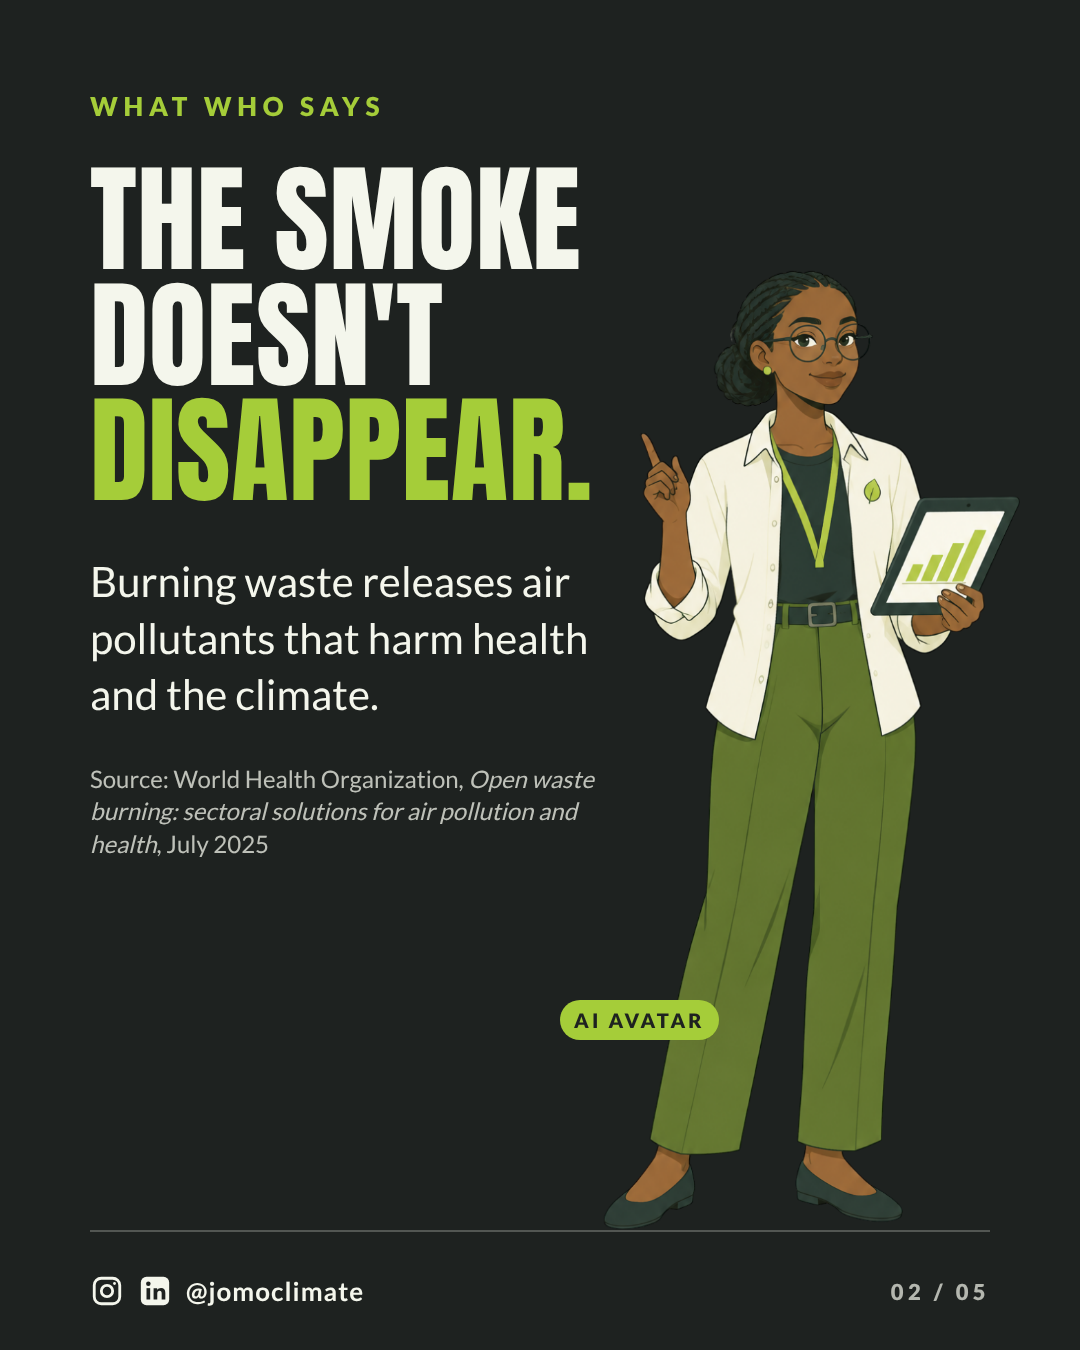
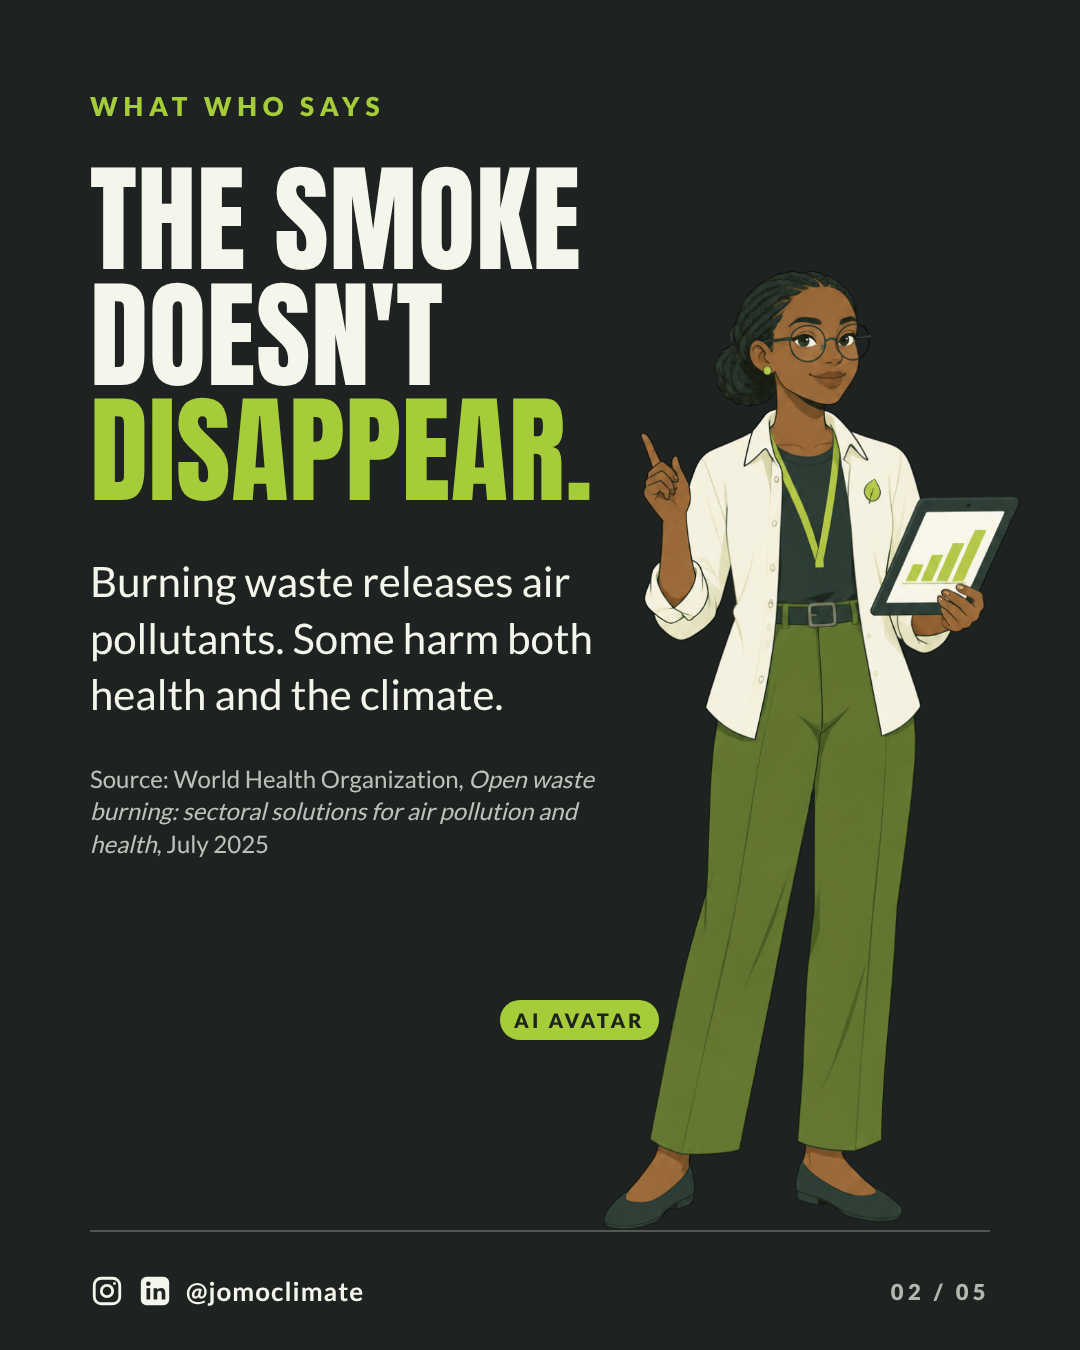
draft: Tobi and Amara test post, policy review fixes; v2 sheets approved
Claude-Session: https://claude.ai/code/session_01F6NcUsFQ3PsVvfZiAxD4Cd

Changed region(s): [[0.0917, 0.4667, 0.55, 0.5289], [0.4583, 0.7156, 0.6722, 0.7778]]

diff --git a/tools/avatars_test.py b/tools/avatars_test.py
@@ -32,11 +32,11 @@ write("av1-01", pg(f"""
 
 write("av1-02", pg(f"""
  <img class="av" src="{AMARA}" style="right:60px;bottom:120px;height:960px">
- {chip(560, 1000, dark=False)}
+ {chip(500, 1000, dark=False)}
  <div style="position:relative;z-index:4;max-width:540px">
   <div class="label">What WHO says</div>
   <div class="h" style="font-size:118px;margin-top:40px">The smoke<br>doesn't<br><span class="acc">disappear.</span></div>
-  <div class="body" style="margin-top:44px;font-size:42px">Burning waste releases air pollutants that harm health and the climate.</div>
+  <div class="body" style="margin-top:44px;font-size:42px">Burning waste releases air pollutants. Some harm both health and the climate.</div>
   <div class="src" style="margin-top:40px">Source: World Health Organization, <i>Open waste burning: sectoral solutions for air pollution and health</i>, July 2025</div>
  </div>
 """, "ink", 2, T))

diff --git a/content/posts/2026-11-02-avatars-burning-refuse/review.md b/content/posts/2026-11-02-avatars-burning-refuse/review.md
@@ -9,3 +9,81 @@
 | "My uncle says…" | Slide 1 | A framing line spoken by a fictional AI character, not a quote from a real person | OK |
 | Actions: bag and cover refuse; keep plastics, tyres and nylon out of fires; agree a collection point | Slide 4, FB | General good practice, not a factual claim | OK |
 | Characters are AI and not real people | Every slide, both captions | `references/avatars.md`; safety checklist item 8 | OK |
+
+## Policy and Safety Review (Policy and Safety Reviewer)
+
+All 13 checks run on the captions and on all five slides viewed at full size (1080 × 1350). Nothing is published or scheduled.
+
+### Verdicts
+
+| Slot | Verdict |
+|---|---|
+| Instagram carousel, [DATE] 18:00 WAT | **FIX**: caption edits applied (below). One slide change recommended (slide 2). Hold for the operator gate on the character sheets. |
+| Facebook carousel, [DATE] 18:00 WAT | **FIX**: the caption is clean. Shared alt-text fixes applied. Same slide 2 recommendation and same operator gate. |
+
+### Edits made in `captions.md`
+
+1. IG caption, check 7: "carries air pollutants that harm health and the climate" → "carries air pollutants, some of which harm both health and the climate". This now matches WHO's "some of which have particularly harmful effects on both climate and health" and the FB caption.
+2. IG caption, check 7: "Breathing it, even for a short time, can cause" → "Breathing it, short-term or long-term, can cause". This matches WHO's "whether short- or long-term" and slide 3. "Even for a short time" put more weight on brief exposure than the source does.
+3. Alt text, slide 4: added "(Pidgin for "So what do we do?")" after the Pidgin headline so screen-reader users and non-Pidgin speakers get the meaning.
+4. Alt text, slide 5: "White JOMO logo." → "Handle bar: @jomoclimate." Slide 5 has no logo, so the alt text described something that isn't there.
+
+### Slide change recommended (Designer, not edited here)
+
+- **Slide 2 body (check 7):** "Burning waste releases air pollutants that harm health and the climate." → "Burning waste releases air pollutants. Some harm both health and the climate." The fact-checker accepted the current wording as a simplification. It is a small overstatement on a slide headed "What WHO says", though, so it should follow WHO's wording. If the slide changes, update the slide 2 alt text to match.
+
+### Check by check
+
+1. **Accuracy:** PASS after the fixes. Every claim is sourced to the WHO page (17 July 2025). The actions are general practice, not claims.
+2. **Consent:** PASS. There are no real people. Both characters are AI illustrations.
+3. **Engagement bait:** PASS. The calls to action are "Swipe for what to do instead" and the three actions. "Who's coming?" is the approved shared sign-off, not a push to comment, tag or share.
+4. **Apolitical:** PASS. No policy, party, official or agency is mentioned.
+5. **Boosting:** Not planned. If the operator boosts it, Meta could treat the environment and health topic as a social issue. Check before paying.
+6. **No shaming:** PASS. No person is shown burning refuse, and no place or community is named.
+7. **Climate and health claims:** FIX (IG caption done; slide 2 recommended). No predictions.
+8. **AI content:**
+   - Slides 1 and 5 have "TOBI · AI AVATAR" or "AMARA · AI AVATAR" in every speech bubble.
+   - Slides 2 and 4 have an "AI AVATAR" pill next to the character. Slide 3 has no character, so it needs no label.
+   - Both captions say "Tobi and Amara are JOMO's AI characters, not real people", and slide 5 repeats it on screen.
+   - Both characters are clearly flat illustrations with bold outlines, not photoreal.
+   - Both read as adults: Tobi has facial hair and adult build, and Amara has adult proportions, work clothes and a lanyard. There are no school cues.
+   - Nothing presents them as JOMO staff or as at a real event or result.
+   - There is no testimonial and no endorsement of JOMO by a character. The uncle line is a fictional framing line (see check 13).
+   - All on-screen text was added in the edit, and there is no garbled generator text.
+   - PASS on the content. The platform AI label is an operator action (see below).
+9. **Copyright:** PASS. The characters come from Canva AI under JOMO's Canva for Nonprofits licence. There is no watermark or tool mark to preserve, and no third-party photos, logos or music. The Instagram and LinkedIn glyphs are in the standard handle bar.
+10. **Partners:** PASS. None are named.
+11. **Fundraising:** PASS. There is no donation ask.
+12. **Links and handles:** The handle @jomoclimate is correct. The FB link to the WHO page (https://www.who.int/publications/i/item/B09367) could not be opened in this session (no web access). Click it once before scheduling.
+13. **Hate, harassment and safety:** PASS, low risk.
+   - "My uncle says…" corrects a common belief with a source. It doesn't ridicule the uncle, and both captions widen it to "We've all heard it" / "Many of us grew up hearing this", so no group, ethnicity or age group is singled out.
+   - The characters' states of origin stay unstated, as `avatars.md` requires.
+   - "So wetin we go do?" is natural Naija Pidgin. It fits Tobi's established code-switching and is used sincerely as the turn to solutions, not as a joke.
+   - If the operator wants zero family framing, an option for slide 1 is "People say burning the refuse heap is the cleanest way to clear it." This is optional.
+
+### Layout
+
+- **Slide 1:** Headline lines are broken on purpose. Both bubble labels are legible, and the bubbles don't touch the figures.
+- **Slide 2:** The "AI AVATAR" pill slightly overlaps Amara's trouser leg. It is still fully legible (Ink on Lime) and reads as attached to her. Acceptable, but nudging it about 40px left would clear it.
+- **Slide 3:** The leaf decoration sits in empty space at top right, clear of the headline.
+- **Slide 4:** The pill is clear of Tobi's legs, and the ticks and text don't overlap.
+- **Slide 5:** Bubbles and the footer are clear of the figures. There is no logo on the closing slide, though the brand guide doesn't require one and the handle bar is present. Adding the light logo is an optional Designer touch.
+- **All slides:** The handle bar and slide counters are consistent. No text is cut by the frame.
+
+### Hashtags
+
+IG has 4 (#SourcePlease #ClimateAction #CleanAir #Nigeria), inside the 3–5 rule. FB has 2. None are mid-sentence. #SourcePlease is a new series tag. I couldn't check whether it is already used for unrelated content, so take a quick look at it on Instagram before posting.
+
+### Operator items
+
+1. **Gate: approve the v2 character sheets first.** `references/avatars.md` (operator decision 5) says no post uses the characters until the sheets are approved. The v2 sheets (Tobi MAHY9HuFzDs, Amara MAHY9F2RE7Q) are still "waiting on operator approval" in `assets/avatars/README.md`. Please approve the sheets, or explicitly approve the character art in this post, before signing off.
+2. Decide on the slide 2 wording change (recommended).
+3. When posting, switch on Meta's AI label ("Add AI label" / AI info) for both the IG and FB posts in the apps. Confirm it is available before scheduling from Meta Business Suite.
+4. Pick the date. The folder says 2026-11-02, but the caption has [DATE]. Note that YCEF applications close Tue 3 Nov, so that week may need its slots for YCEF.
+5. Click the WHO link once and glance at #SourcePlease before scheduling.
+6. Optional: the slide 1 "People say…" alternative; nudge the slide 2 pill; add the light logo to slide 5.
+
+## Designer follow-up and operator status
+
+- Slide 2 now reads "Burning waste releases air pollutants. Some harm both health and the climate." (WHO's "some of which" wording). The "AI avatar" tag moved clear of Amara's trousers. A logo on slide 5 was tried and dropped because it crowded the speech bubbles (optional under the brand guide). Alt text matches.
+- Operator item 1 is already cleared: the operator approved both v2 character sheets on 2026-10-24 ("Approve both sheets").

diff --git a/content/posts/2026-11-02-avatars-burning-refuse/captions.md b/content/posts/2026-11-02-avatars-burning-refuse/captions.md
@@ -14,7 +14,7 @@ Visual: 5-slide 4:5 carousel, `visuals/av1-01.png` to `av1-05.png`
 Caption — Instagram:
 "Burning the refuse heap is the cleanest way to clear it." 🔥 We've all heard it. Tobi did too. Amara said: source, please. 🔍
 
-The World Health Organization says the smoke from burning waste carries air pollutants that harm health and the climate. Breathing it, even for a short time, can cause coughing, skin irritation and breathing problems.
+The World Health Organization says the smoke from burning waste carries air pollutants, some of which harm both health and the climate. Breathing it, short-term or long-term, can cause coughing, skin irritation and breathing problems.
 
 The fire makes the heap smaller. The smoke goes into the air your family breathes.
 
@@ -46,10 +46,10 @@ Tobi and Amara are JOMO's AI characters, not real people.
 
 Alt text:
 - Slide 1: Off-white slide. Headline: "Burning refuse: clean fix or smoke trap?" An illustrated young man, Tobi, in a lime shirt and bandana, points ahead; his speech bubble, labelled "Tobi · AI avatar", says: "My uncle says burning the refuse heap is the cleanest way to clear it." An illustrated young woman, Amara, with glasses and a tablet, replies in a bubble labelled "Amara · AI avatar": "Source, please."
-- Slide 2: Dark slide with Amara (label "AI avatar") holding her tablet. "What WHO says. The smoke doesn't disappear. Burning waste releases air pollutants that harm health and the climate." Source line: World Health Organization, Open waste burning: sectoral solutions for air pollution and health, July 2025.
+- Slide 2: Dark slide with Amara (label "AI avatar") holding her tablet. "What WHO says. The smoke doesn't disappear. Burning waste releases air pollutants. Some harm both health and the climate." Source line: World Health Organization, Open waste burning: sectoral solutions for air pollution and health, July 2025.
 - Slide 3: Lime slide. "Breathing the smoke can cause: Coughing. Skin irritation. Breathing problems. Short-term or long-term, says WHO."
-- Slide 4: Off-white slide with Tobi (label "AI avatar") pointing at the list. "Do this instead. So wetin we go do?" Three ticks: "Bag it and keep it covered until it's collected", "Keep plastics, tyres and nylon out of any fire", "Agree on one collection point with your neighbours".
-- Slide 5: Dark slide with both characters. Bubble "Tobi · AI avatar": "Who's coming?" Bubble "Amara · AI avatar": "And bring your facts." Footer: "Tobi and Amara are JOMO's AI characters, not real people." White JOMO logo.
+- Slide 4: Off-white slide with Tobi (label "AI avatar") pointing at the list. "Do this instead. So wetin we go do?" (Pidgin for "So what do we do?") Three ticks: "Bag it and keep it covered until it's collected", "Keep plastics, tyres and nylon out of any fire", "Agree on one collection point with your neighbours".
+- Slide 5: Dark slide with both characters. Bubble "Tobi · AI avatar": "Who's coming?" Bubble "Amara · AI avatar": "And bring your facts." Footer: "Tobi and Amara are JOMO's AI characters, not real people." Handle bar: @jomoclimate.
 
 Sources:
 - WHO, "Open waste burning: sectoral solutions for air pollution and health", technical document, 17 July 2025: https://www.who.int/publications/i/item/B09367 ("Exposure to these pollutants, whether short- or long-term, can lead to adverse health effects such as coughing", skin irritation and respiratory diseases; "a variety of air pollutants, some of which have particularly harmful effects on both climate and health").

diff --git a/assets/avatars/README.md b/assets/avatars/README.md
@@ -32,4 +32,4 @@ The prompts are the same as v1 (`references/avatars.md`). The v1 media ids above
 | | Tobi | Amara |
 |---|---|---|
 | Concept (approved look, redrawn) | MAHY9JnuNlQ · https://www.canva.com/M/MAHY9JnuNlQ · `concepts-v2/tobi-v2-preview.png` | MAHY9JCjN-k · https://www.canva.com/M/MAHY9JCjN-k · `concepts-v2/amara-v2-preview.png` |
-| Character sheet (waiting on operator approval) | MAHY9HuFzDs · https://www.canva.com/M/MAHY9HuFzDs · `sheets-v2/tobi-sheet-v2-preview.png` | MAHY9F2RE7Q · https://www.canva.com/M/MAHY9F2RE7Q · `sheets-v2/amara-sheet-v2-preview.png` |
+| Character sheet (approved by the operator, 2026-10-24) | MAHY9HuFzDs · https://www.canva.com/M/MAHY9HuFzDs · `sheets-v2/tobi-sheet-v2-preview.png` | MAHY9F2RE7Q · https://www.canva.com/M/MAHY9F2RE7Q · `sheets-v2/amara-sheet-v2-preview.png` |

diff --git a/references/avatars.md b/references/avatars.md
@@ -70,4 +70,4 @@ They are a duo, not two separate accounts. They contrast in energy, look and voi
 2. ~~Art style~~: flat vector illustration, approved 2026-10-24.
 3. ~~Canva~~: Canva for Nonprofits licence in place (operator, 2026-10-24).
 4. ~~First character art~~: concepts v1 approved by the operator on 2026-10-24 (redrawn as v2 after the Canva account switch: MAHY9JnuNlQ for Tobi, MAHY9JCjN-k for Amara; see `assets/avatars/README.md`).
-5. Approve the character sheets before any post uses them.
+5. ~~Character sheets~~: v2 approved by the operator on 2026-10-24 (Tobi MAHY9HuFzDs, Amara MAHY9F2RE7Q).
